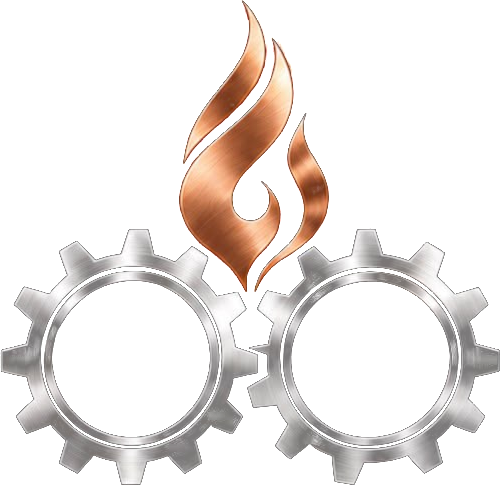
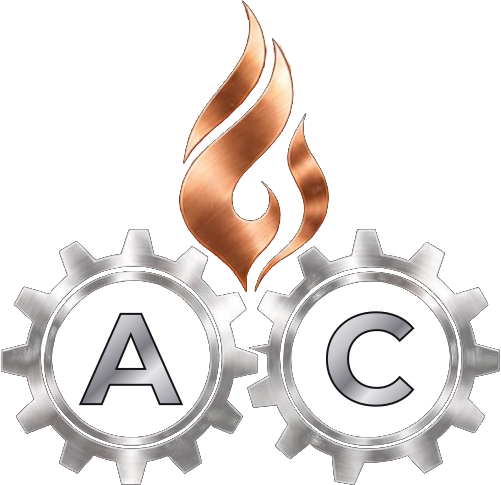
A ve C harflerini site ikonlarına da ekle, footer logosunun önbellekten eski gelmesini önle
- Footer logosu alevsan-logo-ac.png olarak yeniden adlandırıldı (eski harfsiz kopya tarayıcı/CDN önbelleğinde kalıyordu)
- Sekme ikonu (icon.png) ve telefon ikonu (apple-icon.png) da harfli amblemden üretiliyor

Changed region(s): [[0.6287, 0.6186, 0.8383, 0.866], [0.1497, 0.6186, 0.3593, 0.8351]]

diff --git a/src/components/Logo.tsx b/src/components/Logo.tsx
@@ -19,7 +19,7 @@ export function Logo() {
 export function LogoFull({ className = "w-56" }: { className?: string }) {
   return (
     <Link href="/" aria-label="Alevsan – Ana Sayfa" className="inline-block">
-      <Image src="/brand/alevsan-logo.png" alt="Alevsan Torna Sanayi ve Ticaret Ltd. Şti. – Çeliğe işlenen sanat" width={971} height={905} className={`h-auto ${className}`} />
+      <Image src="/brand/alevsan-logo-ac.png" alt="Alevsan Torna Sanayi ve Ticaret Ltd. Şti. – Çeliğe işlenen sanat" width={971} height={905} className={`h-auto ${className}`} />
     </Link>
   );
 }
